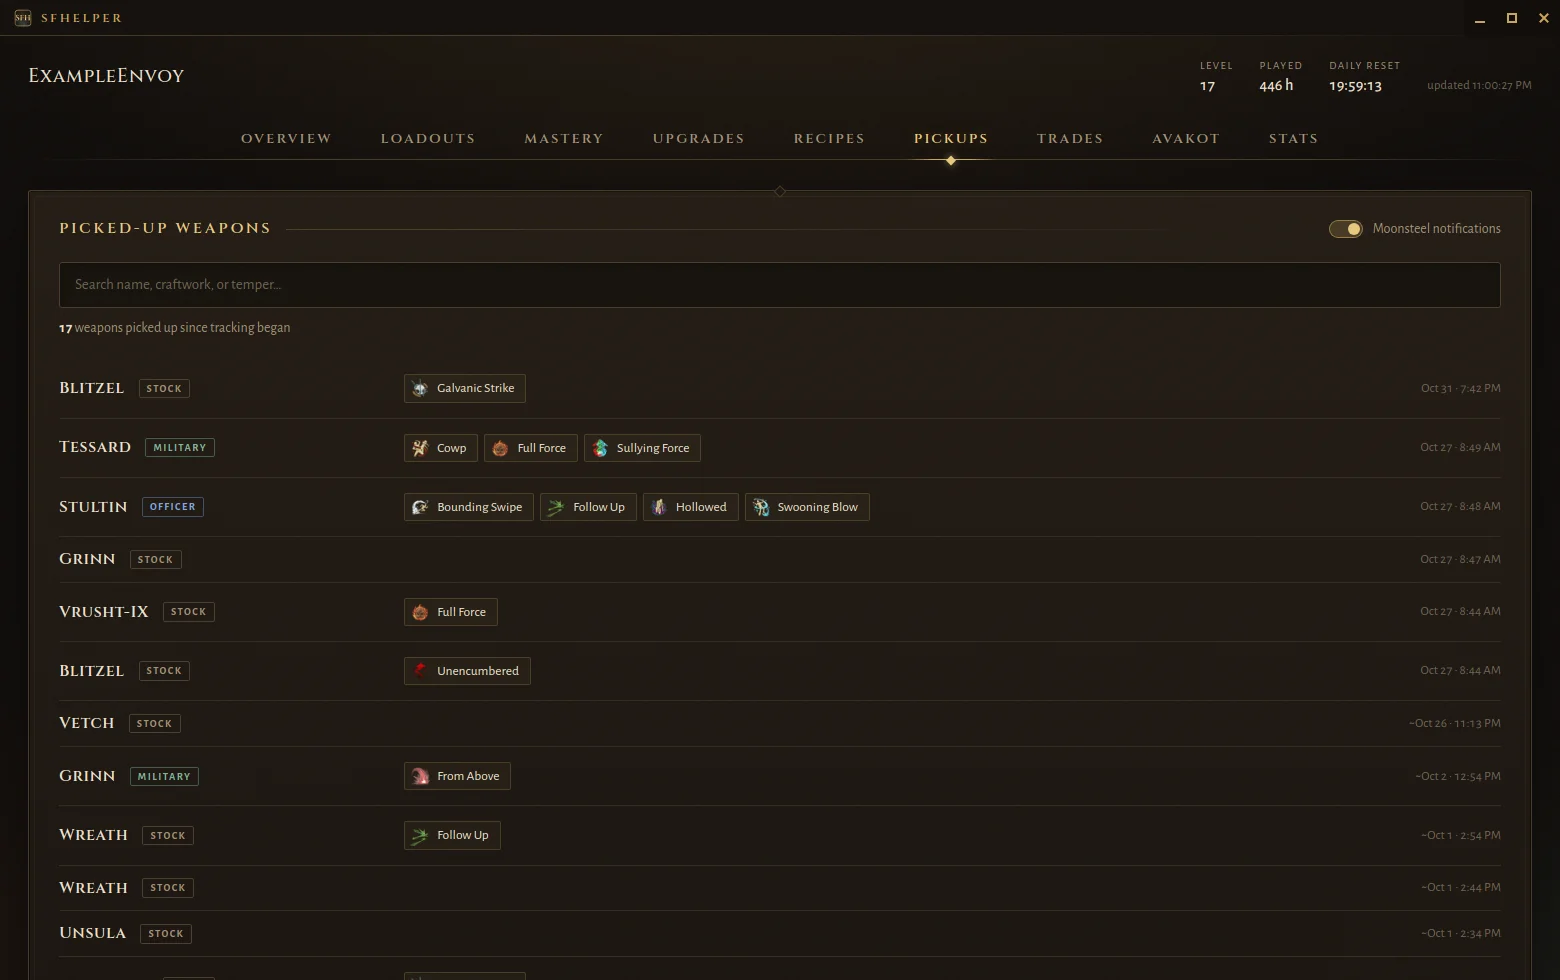
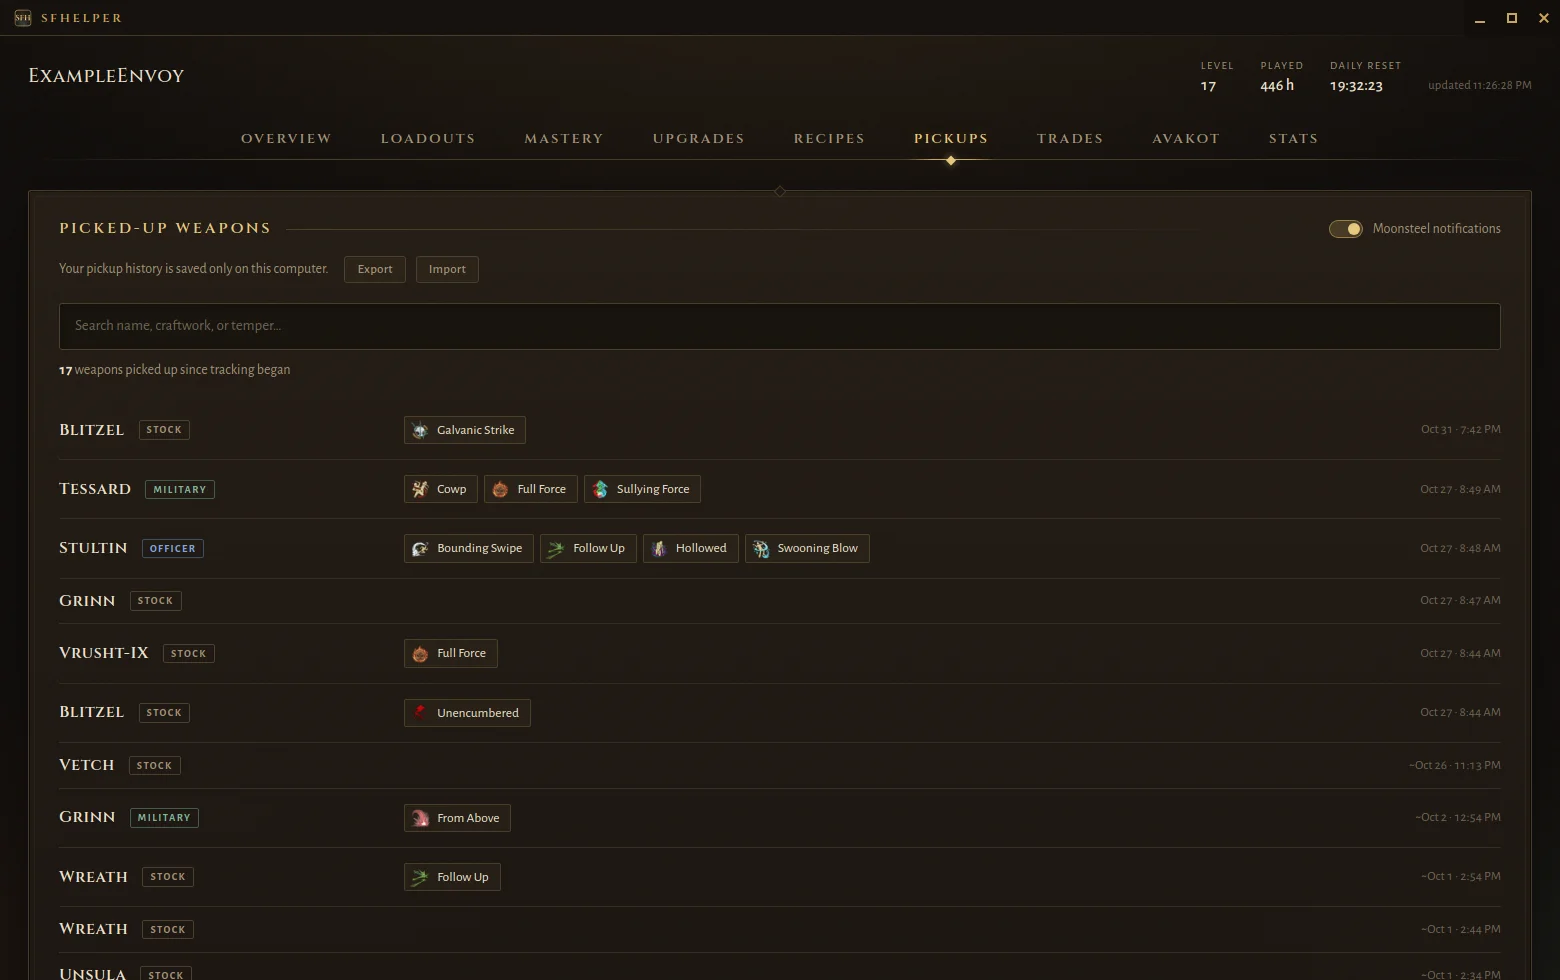
Split Upgrades into Tempers, Runes, Joineries, Gear and Totems tabs, Redid screenshots and sorted them by tab order

diff --git a/src/server/public/index.html b/src/server/public/index.html
@@ -138,6 +138,9 @@
       }
       .panel { display: grid; gap: 28px; }
       .panel:not(.active) { content-visibility: hidden; }
+      .subtabs { display: flex; gap: 8px; flex-wrap: wrap; margin-bottom: -8px; }
+      .subtabs .fchip { padding: 9px 20px; font-size: 12px; }
+      .panel > section.offview { display: none; }
       .cols { display: grid; grid-template-columns: 1fr 1fr; gap: 28px; align-items: start; }
       .ov-col { display: contents; }
       .ov-account { order: 1; }
@@ -819,27 +822,34 @@
       </div>
 
       <div class="panel" id="panel-upgrades">
-        <section>
+        <div class="subtabs" id="upgradeTabs" role="tablist" aria-label="Upgrades">
+          <button class="fchip" role="tab" data-view="tempers">Tempers</button>
+          <button class="fchip" role="tab" data-view="runes">Runes</button>
+          <button class="fchip" role="tab" data-view="joineries">Joineries</button>
+          <button class="fchip" role="tab" data-view="gear">Gear</button>
+          <button class="fchip" role="tab" data-view="totems">Totems</button>
+        </div>
+        <section data-view="tempers">
           <h2>Tempers · Tuvalkane</h2>
           <div class="daily" id="temperSummary"></div>
           <div id="tempers" class="rows"><span class="muted">Dismantle weapons to teach Tuvalkane their tempers (10 to learn each).</span></div>
         </section>
-        <section id="runesSection" hidden>
+        <section id="runesSection" data-view="runes" hidden>
           <h2>Runes</h2>
           <div class="daily" id="runeSummary"></div>
           <div id="runes"></div>
         </section>
-        <section id="joinerySection" hidden>
+        <section id="joinerySection" data-view="joineries" hidden>
           <h2>Joineries</h2>
           <div class="daily" id="joinerySummary"></div>
           <div id="joineries"></div>
         </section>
-        <section id="gearSection" hidden>
+        <section id="gearSection" data-view="gear" hidden>
           <h2>Gear</h2>
           <div class="daily" id="gearSummary"></div>
           <div id="gear"></div>
         </section>
-        <section>
+        <section data-view="totems">
           <h2>Totems</h2>
           <input id="totemSearch" class="wsearch" placeholder="Search names or effects, e.g. rune damage, pull smite, armour…" spellcheck="false" />
           <div class="tfilters" id="totemFilters"></div>
@@ -974,6 +984,31 @@
         const RENAMED_TAB = { totems: "upgrades", weapons: "mastery" };
         if (savedTab) activateTab(RENAMED_TAB[savedTab] || savedTab);
       } catch {}
+
+      let upgradeView = "tempers";
+      try { upgradeView = localStorage.getItem("sfhelper.upgradesView") || upgradeView; } catch {}
+      const upgradeSections = [...document.querySelectorAll("#panel-upgrades > section[data-view]")];
+      function syncUpgradeView() {
+        const shown = upgradeSections.filter((s) => !s.hidden).map((s) => s.dataset.view);
+        const view = shown.includes(upgradeView) ? upgradeView : shown[0];
+        for (const s of upgradeSections) s.classList.toggle("offview", s.dataset.view !== view);
+        for (const b of document.querySelectorAll("#upgradeTabs .fchip")) {
+          const off = !shown.includes(b.dataset.view);
+          if (b.hidden !== off) b.hidden = off;
+          b.classList.toggle("active", b.dataset.view === view);
+          b.setAttribute("aria-selected", String(b.dataset.view === view));
+        }
+      }
+      $("upgradeTabs").addEventListener("click", (e) => {
+        const b = e.target.closest(".fchip");
+        if (!b) return;
+        upgradeView = b.dataset.view;
+        try { localStorage.setItem("sfhelper.upgradesView", upgradeView); } catch {}
+        syncUpgradeView();
+      });
+      const upgradeWatch = new MutationObserver(syncUpgradeView);
+      for (const s of upgradeSections) upgradeWatch.observe(s, { attributes: true, attributeFilter: ["hidden"] });
+      syncUpgradeView();
 
       let DICT = { items: {}, factions: {}, factionTokens: {}, currencies: {} };
       let DICT_LC = {};

diff --git a/README.md b/README.md
@@ -16,7 +16,7 @@ Runs on **Linux** (AppImage) and **Windows** (installer or portable zip).
 | **Overview** | Faction standing and titles, the daily standing cap counting down, standing earned today per faction, faction tokens and currencies. Cooldowns: the game's own timers counting down, such as an Agari (sub-boss) respawning 30 minutes after you slay it, a siege's cooldown, the 3 hours before an Organ can be destroyed again, and the 24 hours between Blessed Meetings. Star a cooldown to get a desktop notification when it ends. When the Collector docks in your game, Cooldowns shows the region and when it leaves; star Collector Event to be notified. |
 | **Loadouts** | Each loadout's Pact (with its Pact Arts tree), weapons, Runes, Totems by slot, Tempers and Joinery (e.g. *Gildaur: Thrice Blessed by Mora*), plus its armour (Helm, Cuirass, Leggings, with defence and Virtue requirements) and Talisman. Virtue totals match the Arsenal, with a breakdown: allocated points, Pact Arts, Talisman and Fables. Pact Arts show the game's own numbers (e.g. Forestall's chance to survive). Loadouts can be shared as short `SFH1:` codes; paste one and press Enter or Import. |
 | **Mastery** | Your Envoy Rank, your Mastery and progress to the next rank, and the patch's maximum rank. Every weapon and pact shows its Mastery, which comes from the game's own record, so a re-crafted weapon still counts. Filter by owned, mastered and type (weapons, Primary, Sidearm or Pacts). Discoveries lists every place by its in-game name, whether you've found it, and the Memories found there. |
-| **Upgrades** | Tuvalkane temper learning; your Runes by weapon art with their rank, the Totem slot they add and their numbers at that rank; your Joineries by metal and blessing; your Gear, with what's equipped; and your Totem inventory with search and grip / Virtue / type filters. |
+| **Upgrades** | Split into Tempers, Runes, Joineries, Gear and Totems tabs. Tuvalkane temper learning; your Runes by weapon art with their rank, the Totem slot they add and their numbers at that rank; your Joineries by metal and blessing; your Gear, with what's equipped; and your Totem inventory with search and grip / Virtue / type filters. |
 | **Recipes** | Everything you can brew with the Witch Verminia (Elixirs, Pup Treats and Palettes) and the Chordstones Tuvalkane casts: each recipe's ingredients against what you have, what you're short of, the Dracs and time it takes, and the Bond rank it needs. Filter by station, or by what's ready to make. |
 | **Pickups** | Weapons you've picked up, with times taken from the game's log. Optional desktop notifications for Moonsteel finds. Pickup and trade history is kept on your computer; export it to move it to a new install. |
 | **Trades** | Your trade history: who you traded with, what you received and gave, with in-game icons (weapons with their craftwork and tempers), and the Dracs spent on Scutage. Plus how many trades you have left today. |
@@ -28,10 +28,11 @@ Runs on **Linux** (AppImage) and **Windows** (installer or portable zip).
 | | |
 |---|---|
 | ![Loadouts: a loadout opened to its Virtues, armour and Pact Arts](screenshots/loadouts.webp) | ![Loadouts: the same loadout's Pact Arts tree and weapons, with Joinery, Runes, Totems by slot and Tempers](screenshots/loadouts-2.webp) |
-| ![Mastery: Envoy Rank and every weapon's Mastery](screenshots/mastery.webp) | ![Upgrades: Tuvalkane's tempers and your Runes](screenshots/upgrades-1.webp) |
-| ![Upgrades: Joineries, Gear and Totems](screenshots/upgrades-2.webp) | ![Pickups: weapons picked up, with craftwork and tempers](screenshots/pickups.webp) |
+| ![Mastery: Envoy Rank and every weapon's Mastery](screenshots/mastery.webp) | ![Upgrades, Tempers: what Tuvalkane has learned and how close the rest are](screenshots/upgrades-tempers.webp) |
+| ![Upgrades, Runes: your Runes by weapon art, with rank and Totem slot](screenshots/upgrades-runes.webp) | ![Upgrades, Joineries: your Joineries by metal and blessing](screenshots/upgrades-joineries.webp) |
+| ![Upgrades, Gear: supplies, fishing gear and companion items, with what's equipped](screenshots/upgrades-gear.webp) | ![Upgrades, Totems: your Totems with search and Virtue, grip, type and trigger filters](screenshots/upgrades-totems.webp) |
+| ![Recipes: Verminia's brews and Tuvalkane's Chordstones, with what you have and what you're short of](screenshots/recipes.webp) | ![Pickups: weapons picked up, with craftwork and tempers](screenshots/pickups.webp) |
 | ![Trades: what you received and gave in each trade, and the Scutage paid](screenshots/trades.webp) | ![Avakot: what Avakot's Gots has in stock, with stars for notifications](screenshots/avakot.webp) |
-| ![Recipes: Verminia's brews and Tuvalkane's Chordstones, with what you have and what you're short of](screenshots/recipes.webp) | |
 
 ## How it gets your data
 
